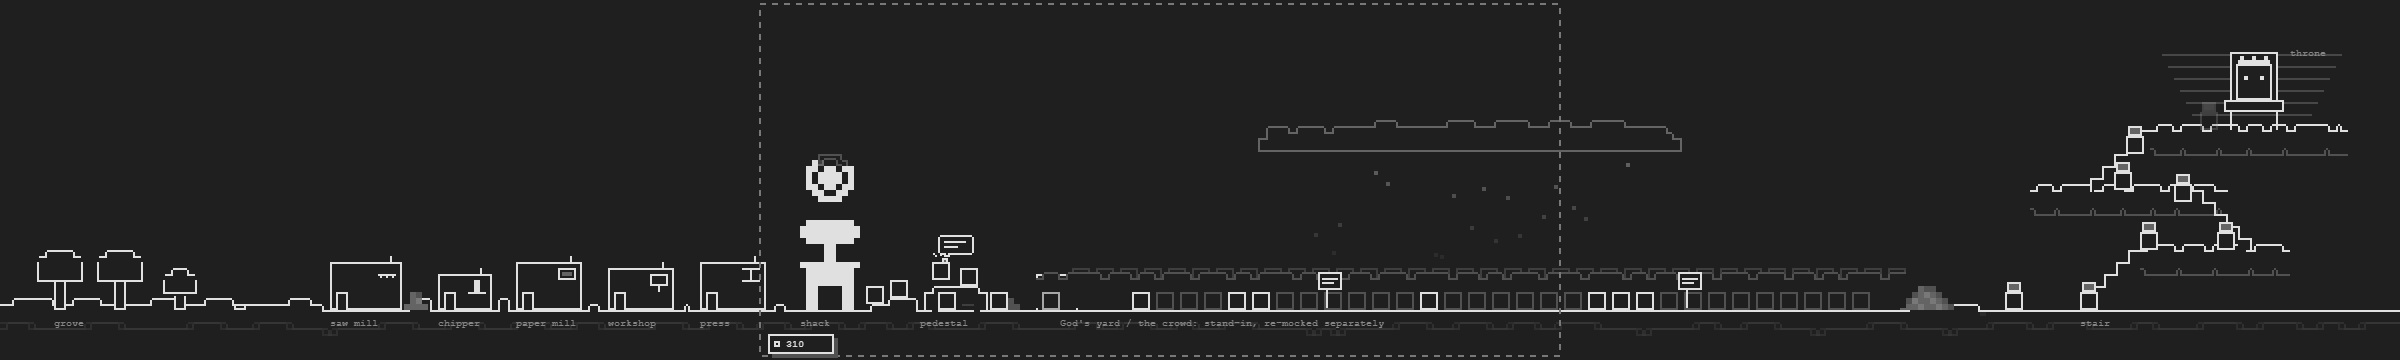
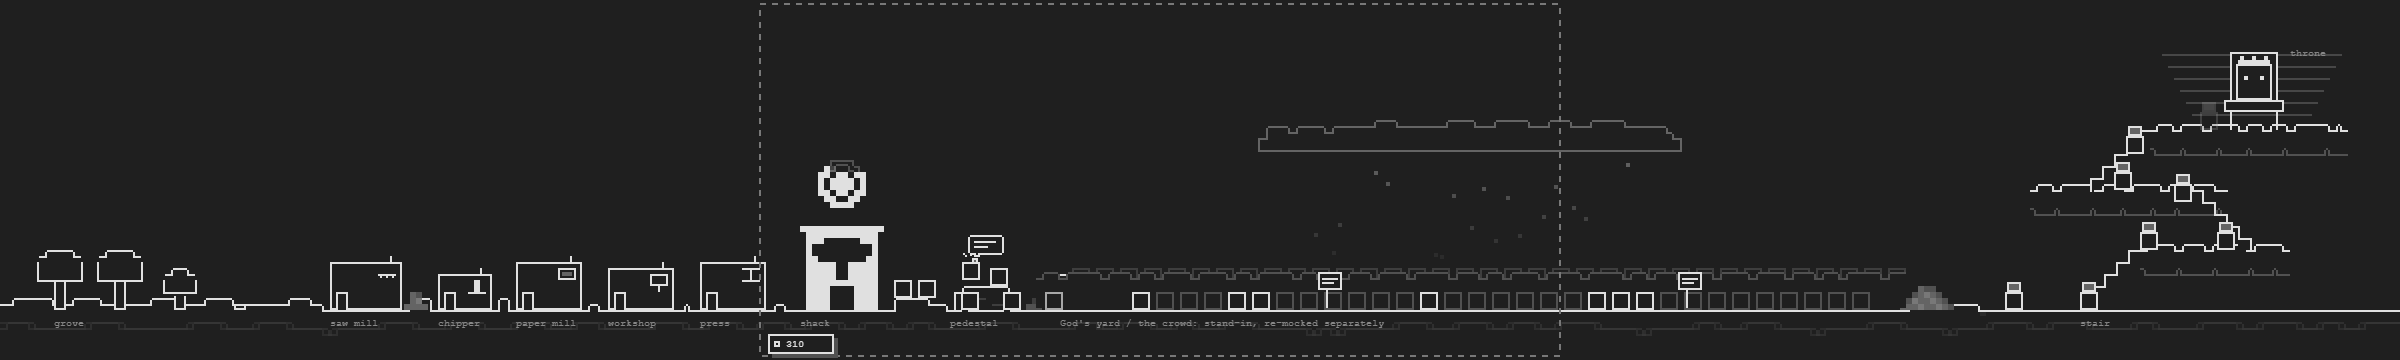
Act 3 shack mock: the chosen shack, B's cut-out with C's mallet, and the strip on it

Changed region(s): [[0.3125, 0.6111, 0.4375, 0.9167], [0.3125, 0.4278, 0.375, 0.5806]]

diff --git a/docs/mocks/act3-place-2026-10-18/shack.html b/docs/mocks/act3-place-2026-10-18/shack.html
@@ -58,8 +58,17 @@
     <button id="pause">pause</button><button id="slow">quarter speed</button>
   </div>
 
+  <section class="card" id="f">
+    <h2>0. The chosen shack: B's cut-out, C's mallet</h2>
+    <p>The owner's pick: <i>B, with the mallet of C</i>. C's mallet is kept at C's size: a head ten cells wide and four tall with its corners cut a cell, on a two-by-three handle. It is cut white out of the front the way B cuts its mark. The wall grows to hold it with a cell of black each side, so it is twelve cells across, fourteen tall, with the lid a cell proud each side and the four-cell way in on the handle's axis. It is a cut-out, so nothing moves. Shown idle and ordering, and at 1x beside the yard's shack.</p>
+    <div class="pair"><figure><canvas data-src="kF"></canvas><figcaption>1x, left idle, right ordering</figcaption></figure>
+    <figure><canvas data-src="kF" data-s="3" data-crop="122,40,108,150"></canvas><figcaption>3x, ordering</figcaption></figure></div>
+    <div class="pair" style="margin-top:8px"><figure><canvas data-src="yardF"></canvas><figcaption>1x, beside the yard's shack</figcaption></figure>
+    <figure><canvas data-src="yardF" data-s="2"></canvas><figcaption>2x</figcaption></figure></div>
+  </section>
+
   <section class="card" id="k">
-    <h2>1. The shack, three takes</h2>
+    <h2>1. The three takes (for the record)</h2>
     <p>Each take is drawn twice on floor A: <b>left idle</b>, <b>right ordering a station</b>. The ordered station's glyph (a saw blade, the yard's floating glyph) fills over the shack a cell at a time. A member carries timber (grey) out to the site, and the station rises in black bands, each fading in.</p>
     <div class="opts">
       <div class="opt"><h3>A. Sign over the door</h3>
@@ -70,7 +79,7 @@
         <div class="pair"><figure><canvas data-src="kB"></canvas><figcaption>1x</figcaption></figure>
         <figure><canvas data-src="kB" data-s="3" data-crop="144,40,96,150"></canvas><figcaption>3x, ordering</figcaption></figure></div>
         <p>The yard's shack exactly, with its hill over the door swapped for a mallet cut white out of the front, as big as the wall allows. It is two cells taller than the yard's shack (13 against 11) and uses the same grammar as the outhouse's moon. The mallet's head and the door are two white shapes on one axis, so it reads as a mallet over a door at 1x.</p></div>
-      <div class="opt rec"><h3>C. Giant mallet on the roof <span class="tag">recommended</span></h3>
+      <div class="opt rec"><h3>C. Giant mallet on the roof <span class="tag">was recommended</span></h3>
         <div class="pair"><figure><canvas data-src="kC"></canvas><figcaption>1x</figcaption></figure>
         <figure><canvas data-src="kC" data-s="3" data-crop="144,40,96,150"></canvas><figcaption>3x, ordering</figcaption></figure></div>
         <p>A low shack with a mallet as wide as its lid standing on its roof: the most exaggerated. It is the only take with a moving part. While an order is in, the mallet knocks, held up a cell and then down. At 1x it reads as a mallet before it reads as a shack, and from a distance the whole thing is one black T. <b>Why C:</b> on the wall (A, B) the mallet's head is held to six cells and comes out as a stubby T. On the roof it gets the lid's full ten, with its corners rounded, so it is the plainest mallet of the three. Its knock is the one sign on the camp that an order is going in.</p></div>
@@ -86,7 +95,7 @@
 
   <section class="card" id="p">
     <h2>3. The picks together</h2>
-    <p>One strip, 2400 px, at 1x: floor A, layout A, shack C (its mallet knocking) ordering the <span class="ph">chipper</span>, the cloud pillar with the pair speaking (bubbles rise, motes fall to the pile), and the cloud switchback to the throne, with the tithe line walking out from God's heap and climbing it. The other stations are still round 1's placeholder boxes (their own looks are voted on elsewhere). The crowd is a stand-in. The dashed frame is roughly what the camera shows, with the counter in its corner.</p>
+    <p>One strip, 2400 px, at 1x: floor A, layout A, the chosen shack ordering the <span class="ph">chipper</span>, the cloud pillar with the pair speaking (bubbles rise, motes fall to the pile), and the cloud switchback to the throne, with the tithe line walking out from God's heap and climbing it. The other stations are still round 1's placeholder boxes (their own looks are voted on elsewhere). The crowd is a stand-in. The dashed frame is roughly what the camera shows, with the counter in its corner.</p>
     <div class="bar" id="fitbar"><button data-f="0" class="on">game scale (scroll)</button><button data-f="1">fit width</button></div>
     <div id="fitwrap"><div class="wide"><canvas data-src="picks"></canvas></div></div>
     <figure style="margin-top:8px"><canvas data-src="picks" data-s="2" data-crop="760,120,420,230"></canvas><figcaption>2x: the shack, the waiting members, the pillar and the pair</figcaption></figure>
@@ -486,9 +495,30 @@ const MALLET_C = [
   '    ##    ',
   '    ##    ',
 ];
+// The chosen shack: B's cut-out with C's mallet. The mallet keeps C's size
+// (a head as wide as C's lid, its corners cut a cell, on a three-cell handle),
+// so the wall grows to hold it with a cell of black each side: twelve across,
+// the lid fourteen, the way in four cells on the same axis as the handle.
+const SHACK_F = [
+  '##############',
+  ' ############ ',
+  ' ###......### ',
+  ' #..........# ',
+  ' #..........# ',
+  ' ##........## ',
+  ' #####..##### ',
+  ' #####..##### ',
+  ' #####..##### ',
+  ' ############ ',
+  ' ####....#### ',
+  ' ####....#### ',
+  ' ####....#### ',
+  ' ####....#### ',
+];
 // draw a take with its feet on `yF`, left edge `x`; returns its top, door x and middle
 function shackTake(take, x, yF, t = 0, knocking = false) {
   if (take === 'A') { const y = yF - SHACK_A.length * P; map(x, y, SHACK_A); return { top: y, door: x + P * 3, mid: x + P * 5 }; }
+  if (take === 'F') { const y = yF - SHACK_F.length * P; map(x, y, SHACK_F); return { top: y, door: x + P * 5, mid: x + P * 7 }; }
   if (take === 'B') { const y = yF - SHACK_B.length * P; map(x, y, SHACK_B); return { top: y, door: x + P * 3, mid: x + P * 5 }; }
   const y = yF - SHACK_C.length * P;
   map(x, y, SHACK_C);
@@ -511,14 +541,15 @@ const SAWG = ['..####..', '.##..##.', '##.##.##', '#.####.#', '#.####.#', '##.##
 // ---- 1. each take, idle and ordering
 const KW = 390, KH = 210, KY = 186;
 function takeScene(take) {
+  const wide = take === 'F', at = wide ? [8, 132] : [20, 156];
   return t => {
     sky(KW, KH);
-    const surf = floorA(0, KW, KY, KH, t, [[14, 90], [150, 232], [286, 370]], 19);
+    const surf = floorA(0, KW, KY, KH, t, wide ? [[0, 100], [124, 224], [286, 370]] : [[14, 90], [150, 232], [286, 370]], 19);
     // idle
-    shackTake(take, 20, KY, t, false);
+    shackTake(take, at[0], KY, t, false);
     // ordering: the glyph over it filling, a member out of the door with timber,
     // the ordered station rising in bands to the right, each band fading in
-    const s = shackTake(take, 156, KY, t, true);
+    const s = shackTake(take, at[1], KY, t, true);
     const cyc = mod(t / 10, 1), fadeAll = cyc < .9 ? 1 : 1 - (cyc - .9) / .1;
     floatGlyph(s.mid, s.top - P * 7, SAWG, smooth(cyc / .8) * fadeAll);
     const sx = 292, sw = 12, sh = 8, bands = 4, done = cyc * (bands + 1);
@@ -529,10 +560,11 @@ function takeScene(take) {
       const bh = sh * P / bands, by = KY - (b + 1) * bh;
       alpha(a, () => { fr(sx, by, sw * P, bh, INK()); if (b === 0) fr(sx + P * 2, KY - P * 2, P * 3, P * 2, PAPER()); });
     }
-    const w = tri(mod(t / 8, 1)), wx = lerp(220, sx - B - 4, w), going = mod(t / 8, 1) < .5;
+    const w = tri(mod(t / 8, 1)), wx = lerp(wide ? 228 : 220, sx - B - 4, w), going = mod(t / 8, 1) < .5;
     walker(wx, surf, { plank: going });
   };
 }
+src('kF', KW, KH, takeScene('F'));
 src('kA', KW, KH, takeScene('A'));
 src('kB', KW, KH, takeScene('B'));
 src('kC', KW, KH, takeScene('C'));
@@ -547,6 +579,15 @@ src('yard', YW, YH, t => {
   yardShack(26, YY); body(86, YY - B);
   shackTake('A', 140, YY); shackTake('B', 240, YY); shackTake('C', 340, YY, t, false);
   label(14, YY + 6, 'yard shack'); label(140, YY + 6, 'A'); label(246, YY + 6, 'B'); label(346, YY + 6, 'C');
+});
+
+src('yardF', 260, YH, t => {
+  sky(260, YH);
+  fr(0, YY, 260, 2, INK());
+  alpha(.05, () => { for (let r = 1; r < 3; r++) for (let c = 0; c < 260 / P; c++) if ((c + r) % 6 === 0) fr(c * P, YY + r * P, P, P, INK()); });
+  yardShack(26, YY); body(86, YY - B);
+  shackTake('F', 130, YY);
+  label(14, YY + 6, 'yard shack'); label(130, YY + 6, 'chosen');
 });
 
 // ---- 3. the picks together
@@ -604,19 +645,19 @@ function switchback(ox, TY, t, from) {
 }
 const LW = 2400, LH = 360, LY = 310;
 src('picks', LW, LH, t => {
-  const S = { grove: 24, mill: 330, chipper: 438, paper: 516, workshop: 608, press: 700, shack: 800, pedestal: 920,
-              wait: 858, crowd: [1060, 1880], heaps: 1900, fence: 1036, stair: 1990, view: 760 };
+  const S = { grove: 24, mill: 330, chipper: 438, paper: 516, workshop: 608, press: 700, shack: 800, pedestal: 950,
+              wait: 858, crowd: [1060, 1880], heaps: 1900, fence: 1058, stair: 1990, view: 760 };
   const boxes = [['mill', 12, 8, 'saw', 'saw mill'], ['chipper', 9, 6, 'chip', 'chipper'], ['paper', 11, 8, 'vat', 'paper mill'],
                  ['workshop', 11, 7, 'sign', 'workshop'], ['press', 11, 8, 'press', 'press']];
   sky(LW, LH);
-  const flats = boxes.map(([k, w]) => [S[k] - P, S[k] + w * P + P]).concat([[S.shack - P * 2, S.shack + P * 11]], [[S.pedestal, S.pedestal + P * 17]], [[S.stair, LW]], [[S.crowd[0] - 30, S.crowd[1] + 24]]);
+  const flats = boxes.map(([k, w]) => [S[k] - P, S[k] + w * P + P]).concat([[S.shack - P * 2, S.shack + P * 15]], [[S.pedestal, S.pedestal + P * 17]], [[S.stair, LW]], [[S.crowd[0] - 30, S.crowd[1] + 24]]);
   const surf = floorA(0, LW, LY, LH, t, flats, 3);
   [3, 3, 2, 0].forEach((st, i) => { const x = S.grove + 30 + i * 60; if (st) tree(x, LY, st); else stump(x, LY); });
   label(S.grove + 30, LY + 8, 'grove');
   for (const [k, w, h, gl, name] of boxes) { station(S[k], LY, w, h, gl); label(S[k], LY + 8, name); }
   heap(S.mill + 12 * P + 2, LY, 24, 3);
-  // the shack (take C), ordering the chipper: its mallet knocking, the glyph filling over it
-  const sh = shackTake('C', S.shack, LY, t, true);
+  // the chosen shack, ordering the chipper: the glyph filling over it
+  const sh = shackTake('F', S.shack, LY);
   floatGlyph(sh.mid, sh.top - P * 7, SAWG, smooth(mod(t / 10, 1) / .8) * (mod(t / 10, 1) < .9 ? 1 : 1 - (mod(t / 10, 1) - .9) / .1));
   label(S.shack, LY + 8, 'shack');
   // the cloud pillar, the pair speaking
@@ -624,7 +665,7 @@ src('picks', LW, LH, t => {
   speech(S.pedestal, top, LY, t);
   label(S.pedestal, LY + 8, 'pedestal');
   // members who walked out, waiting by the shack
-  for (let k = 0; k < 2; k++) { const x = 866 + k * 24; body(x, surf(x) - B); }
+  for (let k = 0; k < 2; k++) { const x = 894 + k * 24; body(x, surf(x) - B); }
   // God's yard and the crowd: round 1's stand-in, being re-mocked separately
   const [c0, c1] = S.crowd, cm = (c0 + c1) / 2;
   cloudShape(cm - 210, 150, 70, 4, T(4), 41);
@@ -637,7 +678,7 @@ src('picks', LW, LH, t => {
   const files = Math.floor((c1 - c0) / 24), won = new Set([3, 7, 8, 15, 22, 23, 24]);
   for (let i = 3; i < files; i++) { const x = c0 + i * 24; body(x, surf(x) - B, { soul: !won.has(i), won: won.has(i) ? 1 : 0 }); }
   sign(c0 + 10 * 24 + 18, LY - 2); sign(c0 + 25 * 24 + 18, LY - 2);
-  for (let k = 0; k < 3; k++) { const ph = mod(t / 14 + k / 3, 1), x = lerp(c0 - 4, 900, ph); body(x, surf(x) - B, { a: Math.min(1, ph * 8, (1 - ph) * 8) }); }
+  for (let k = 0; k < 3; k++) { const ph = mod(t / 14 + k / 3, 1), x = lerp(c0 - 4, 930, ph); body(x, surf(x) - B, { a: Math.min(1, ph * 8, (1 - ph) * 8) }); }
   label(c0, LY + 8, "God's yard / the crowd: stand-in, re-mocked separately");
   // the switchback and the throne at the far end, the tithe line from the heap
   switchback(S.stair, LY, t, S.heaps + 30);
